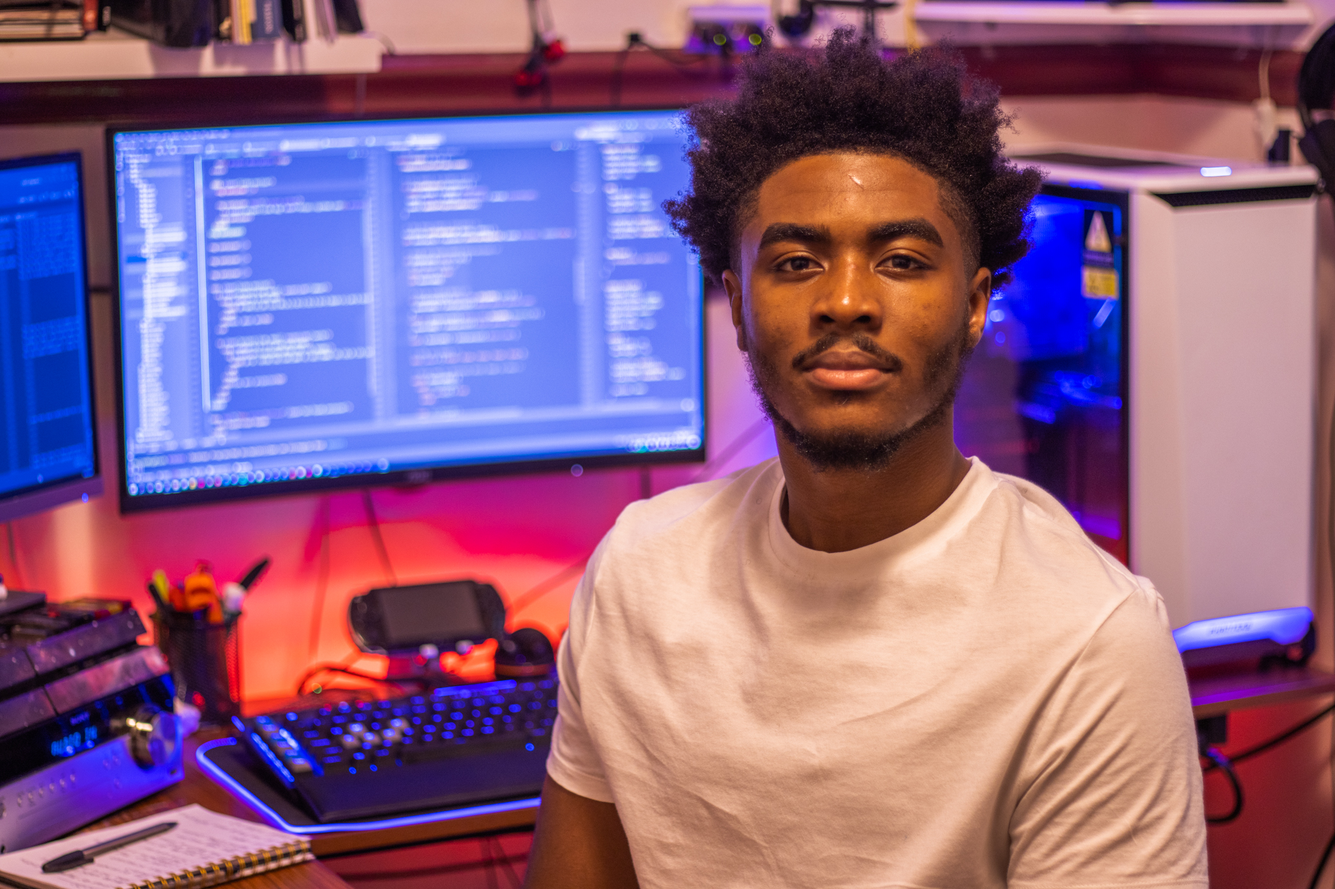
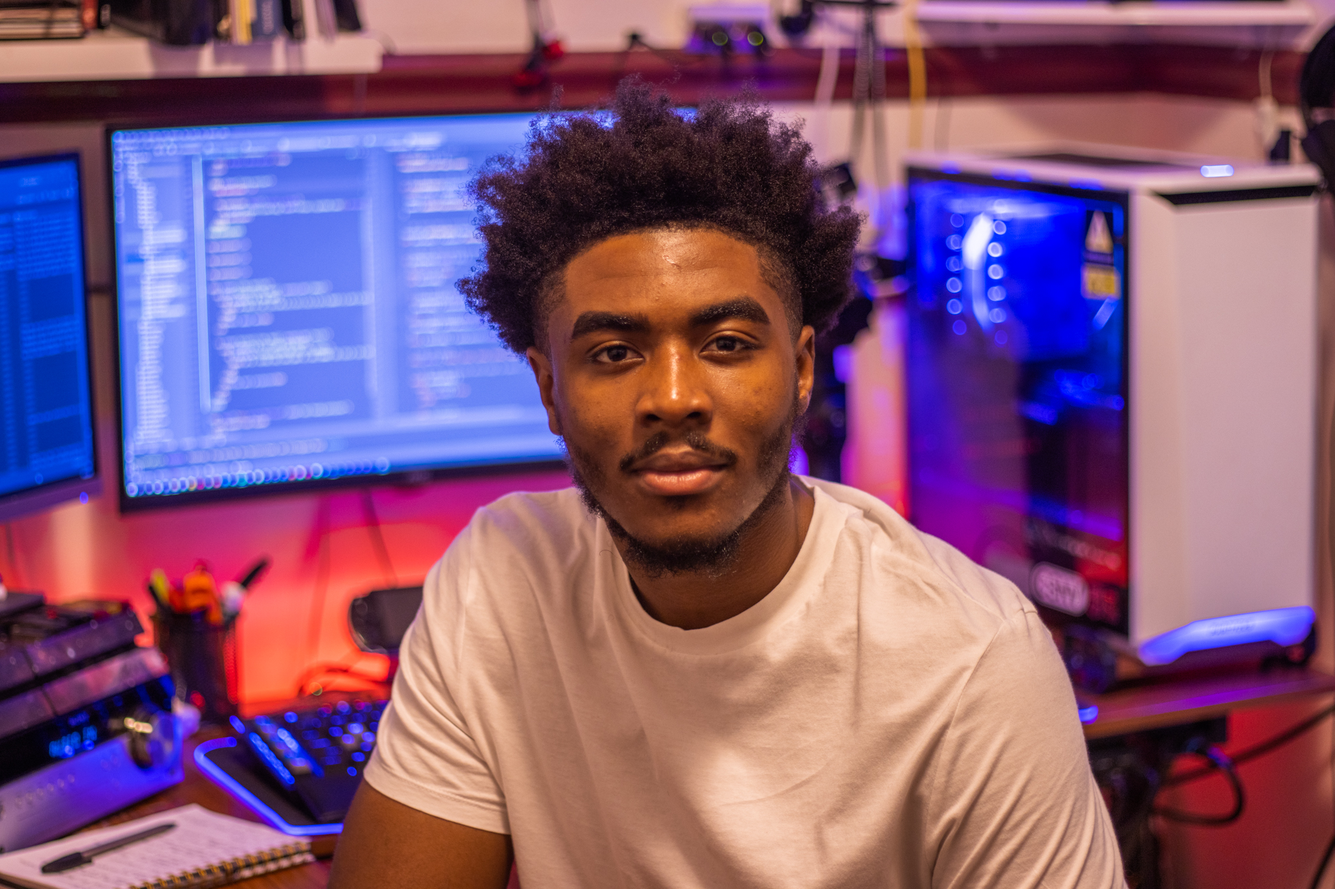
Changed about headshot; grammar

diff --git a/src/app/about/about.component.html b/src/app/about/about.component.html
@@ -4,7 +4,7 @@
 
     <h2>About Me</h2>
 
-    <p>I am a 22-year-old full stack developer and graphic designer based in the NYC area. My objective is to craft
+    <p>I am a 22-year-old full stack developer and graphic designer based in the NYC area. My objectives are to craft
       meaningful digital experiences and enable creative concepts through the mediums of technology. I have proficiency in
       a plethora of programming languages, frameworks, and design software, but my trait as a professional developer is my
       adaptability. My ability to apply core technical and design methodologies to a range of conditions, allows me to
